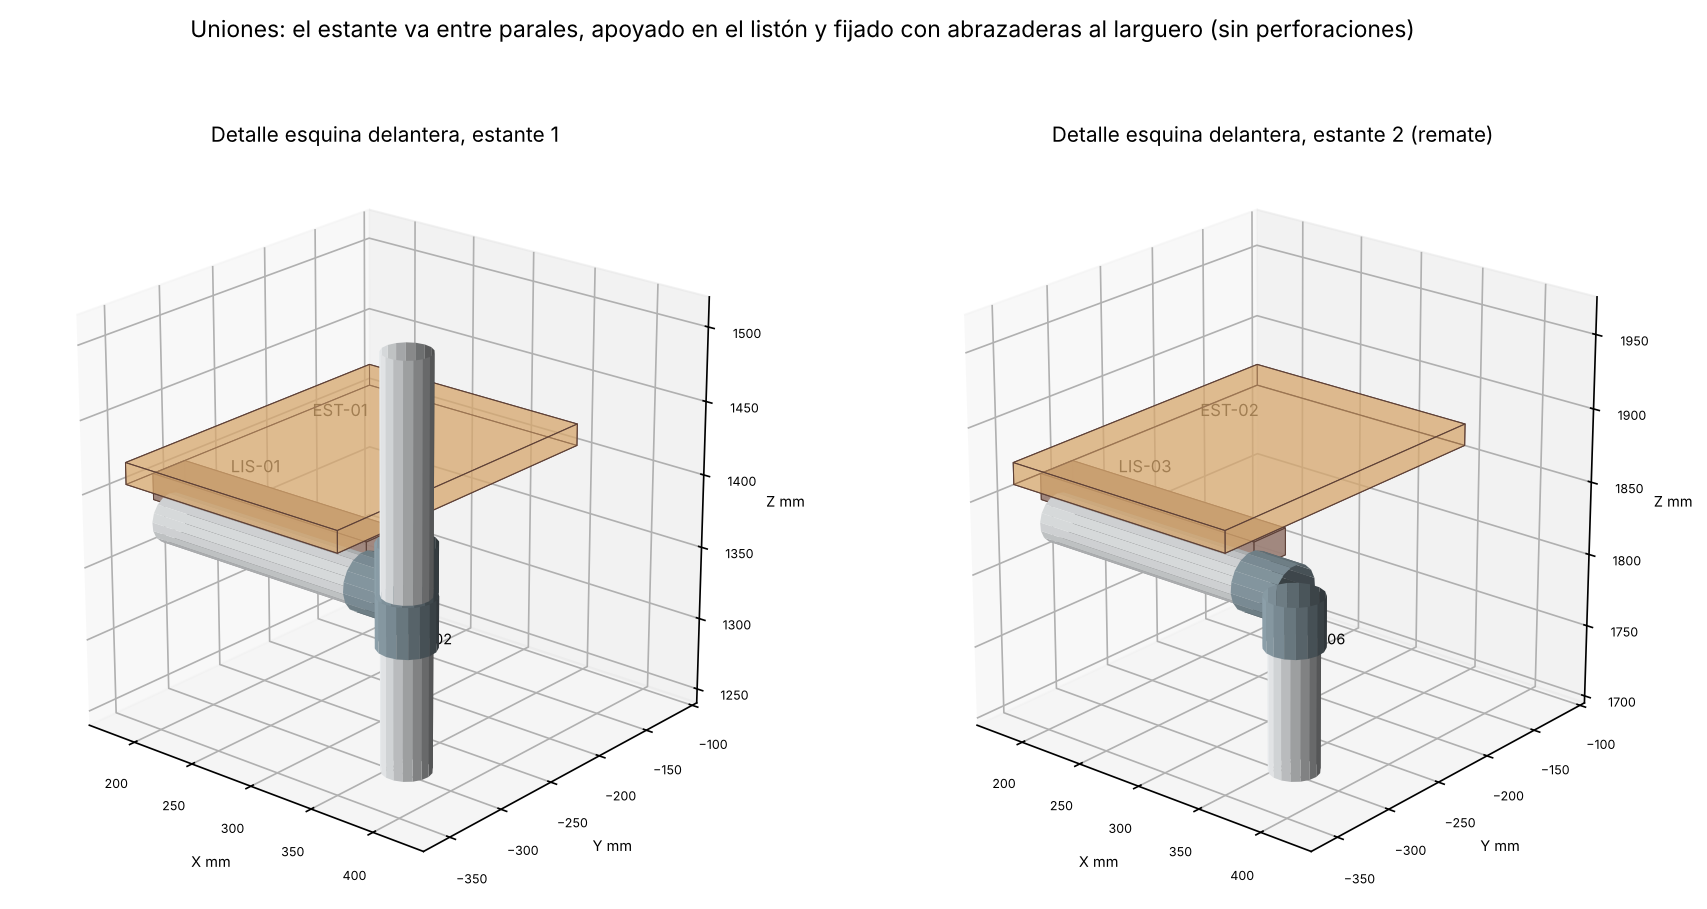
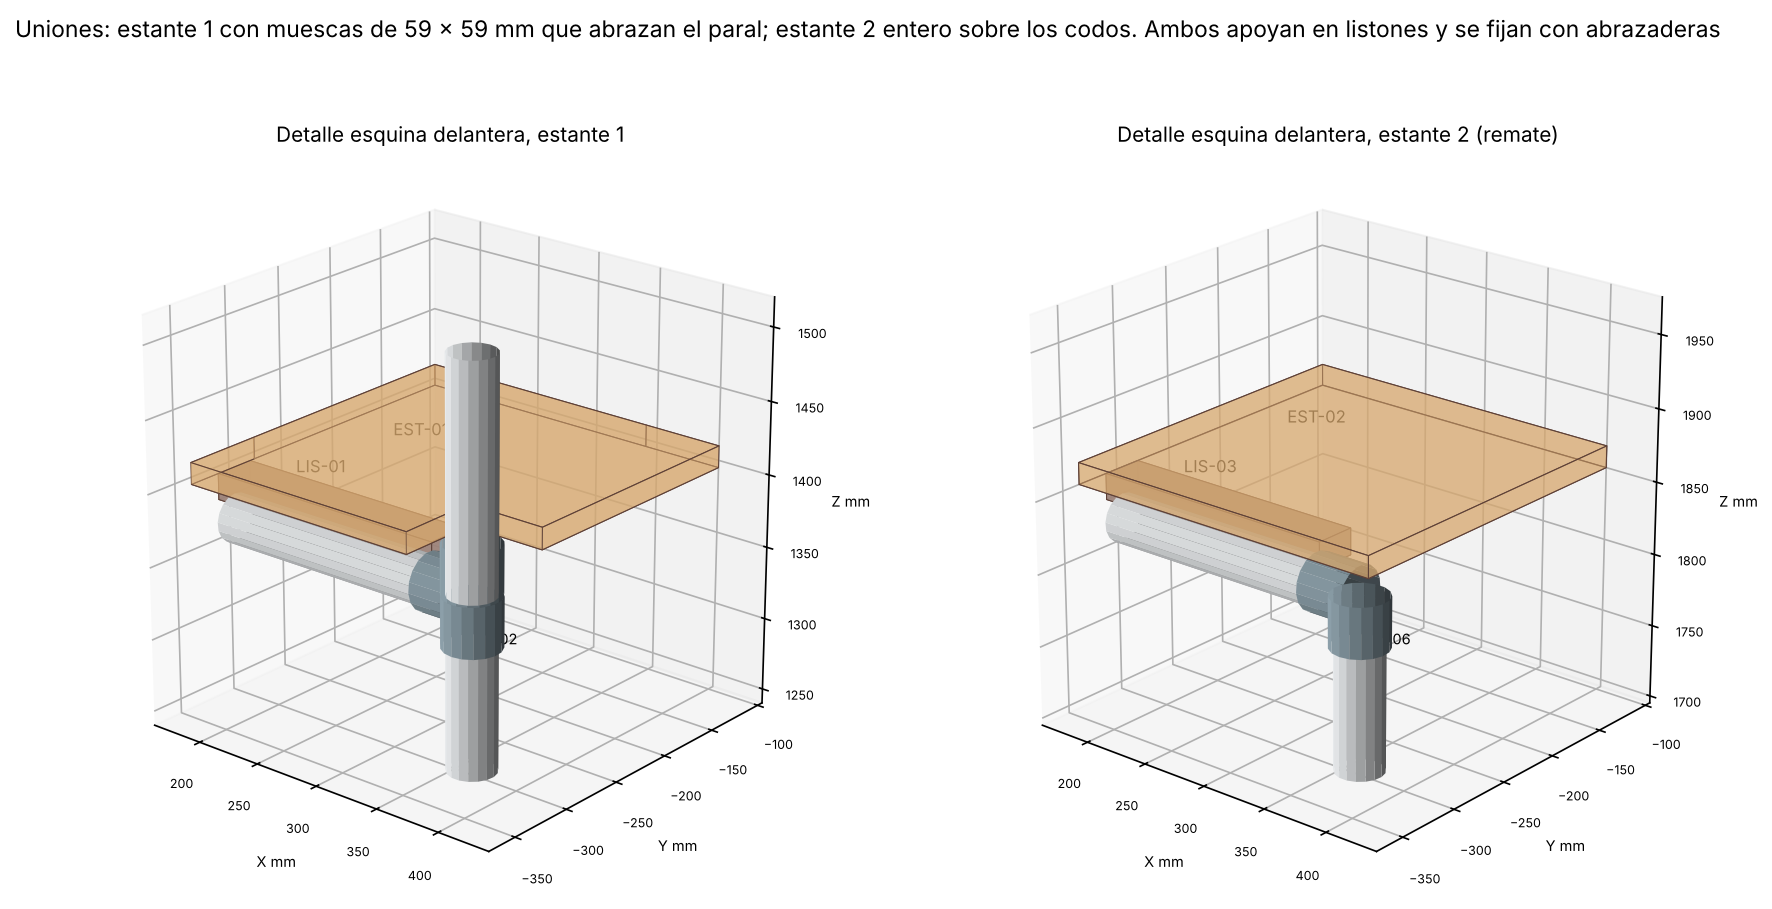
Organizador: estante 1 de 800 mm con muescas en esquinas; estante 2 entero
Claude-Session: https://claude.ai/code/session_01UqvLTsoUSJHPKucFXN8gtB

diff --git a/proyectos/organizador-lavadora/modelo/geometria.py b/proyectos/organizador-lavadora/modelo/geometria.py
@@ -23,7 +23,8 @@ Z_EST2 = 1815            # eje de las tees del estante 2
 # Estante 2 es el remate superior: codos arriba, sin largueros por encima.
 # Estantes SIN perforaciones (usuario 2026-11-22): van entre parales, apoyados en listones
 # sobre los largueros y fijados con abrazaderas para tubo 1" atornilladas (modelo PENDIENTE).
-HOLGURA_PARAL = 2        # holgura lateral del estante contra la tee, por lado
+HOLGURA_PARAL = 2        # holgura del estante contra el tubo/tee, por lado
+VARIANTE_ESTANTE = "muescas"   # "muescas": 800 mm con muescas en esquinas (usuario 2026-11-22) | "entre_parales": 676 mm
 ABRAZADERAS_POR_LISTON = 2
 ABRAZADERAS_PANEL = 4
 LISTON = dict(alto=18, ancho=30)  # PROPUESTA: listón sobre larguero; material PENDIENTE
@@ -32,7 +33,15 @@ Z_PISO = TEE["de"] / 2   # eje de los codos del piso
 HOLGURA_MANO = 100       # sobre la tapa abierta
 
 
+def muesca():
+    """Tamaño de la muesca cuadrada en cada esquina del estante 1 (libra el paral que sigue hacia arriba)."""
+    m = MARGEN_ESTANTE + TUBO_DE / 2 + HOLGURA_PARAL
+    return (round(m), round(m))
+
+
 def dims_estante():
+    if VARIANTE_ESTANTE == "muescas":
+        return 2 * (CX + MARGEN_ESTANTE), 2 * (CY + MARGEN_ESTANTE)
     lx = 2 * (CX - TEE["de"] / 2 - HOLGURA_PARAL)     # cabe entre las tees de los parales
     ly = 2 * (CY + MARGEN_ESTANTE)                      # sobresale por delante y por detrás de los largueros
     return lx, ly
@@ -63,7 +72,10 @@ def piezas():
     lx, ly = dims_estante()
     l = 1
     for i, z in enumerate((Z_EST1, Z_EST2), 1):
-        p.append(dict(codigo=f"EST-{i:02d}", tipo="tablero", origen=(-lx/2, -ly/2, z + r_run), dims=(lx, ly, TRIPLEX), perforaciones=[]))
+        # Estante 1: el paral sigue hacia arriba -> muescas. Estante 2: arriba solo hay codos -> sin muescas.
+        mus = muesca() if (VARIANTE_ESTANTE == "muescas" and i == 1) else None
+        p.append(dict(codigo=f"EST-{i:02d}", tipo="tablero", origen=(-lx/2, -ly/2, z + r_run), dims=(lx, ly, TRIPLEX),
+                      perforaciones=[], muesca=mus))
         for sy in (-1, 1):  # listones sobre largueros, entre tees/codos
             largo = 2 * CX - TEE["de"]
             p.append(dict(codigo=f"LIS-{l:02d}", tipo="liston", origen=(-largo/2, sy*CY - LISTON["ancho"]/2, z + r_run - LISTON["alto"]),
@@ -102,7 +114,10 @@ def verificaciones():
     ancho_total = 2 * (CX + MARGEN_ESTANTE)
     r.append((ancho_total <= ESPACIO["ancho"], f"Ancho total (panel) {ancho_total} <= espacio {ESPACIO['ancho']}"))
     r.append((ly + TRIPLEX <= ESPACIO["fondo"], f"Fondo estante+panel {ly + TRIPLEX} <= espacio {ESPACIO['fondo']}"))
-    r.append((True, f"Estante {lx:.0f} x {ly:.0f} mm, sin perforaciones (INFORMATIVO)"))
+    txt = f"Estante {lx:.0f} x {ly:.0f} mm, sin perforaciones"
+    if VARIANTE_ESTANTE == "muescas":
+        txt += f"; estante 1 con muescas de {muesca()[0]} x {muesca()[1]} mm en las 4 esquinas"
+    r.append((True, txt + " (INFORMATIVO)"))
     libre_x = 2 * CX - TEE["de"]
     r.append((libre_x > LAVADORA["ancho"], f"Paso libre entre parales {libre_x} > lavadora {LAVADORA['ancho']}"))
     bajo_est1 = Z_EST1 - TUBO_DE / 2

diff --git a/proyectos/organizador-lavadora/modelo/vista_previa.py b/proyectos/organizador-lavadora/modelo/vista_previa.py
@@ -26,6 +26,17 @@ def cilindro(ax, a, b, r, color, n=18):
     P = a[:,None,None] + d[:,None,None]*S + r*(u[:,None,None]*np.cos(TH) + w[:,None,None]*np.sin(TH))
     ax.plot_surface(P[0], P[1], P[2], color=color, linewidth=0, shade=True, antialiased=True)
 
+def prisma(ax, poly, z0, h, color, alpha, ec="#5d4037"):
+    n = len(poly)
+    bot = [(x, y, z0) for x, y in poly]; top = [(x, y, z0 + h) for x, y in poly]
+    caras = [bot, top] + [[bot[i], bot[(i+1)%n], top[(i+1)%n], top[i]] for i in range(n)]
+    ax.add_collection3d(Poly3DCollection(caras, facecolor=color, edgecolor=ec, linewidths=0.5, alpha=alpha))
+
+def poly_muescas(o, d, m):
+    x0, y0 = o[0], o[1]; x1, y1 = x0 + d[0], y0 + d[1]; mx, my = m
+    return [(x0+mx, y0), (x1-mx, y0), (x1-mx, y0+my), (x1, y0+my), (x1, y1-my), (x1-mx, y1-my), (x1-mx, y1),
+            (x0+mx, y1), (x0+mx, y1-my), (x0, y1-my), (x0, y0+my), (x0+mx, y0+my)]
+
 def recortar_seg(a, b, lim):
     a, b = np.array(a, float), np.array(b, float); t0, t1 = 0.0, 1.0
     for i, (lo, hi) in enumerate(lim):
@@ -61,6 +72,14 @@ def dibujar(ax, lim, elev, azim, titulo, lavadora=True, etiquetas=False):
                 cilindro(ax, c, c + np.array(d)*g.TEE["largo"]/2, g.TEE["de"]/2, C_ACC)
             if etiquetas:
                 ax.text(*(c + np.array([45, -60, 0])), p["codigo"], fontsize=7)
+        elif p.get("muesca") and not etiquetas:
+            prisma(ax, poly_muescas(p["origen"], p["dims"], p["muesca"]), p["origen"][2], p["dims"][2], C_MAD, 0.55)
+        elif p.get("muesca"):
+            # detalle: recorta el polígono con muescas al cuadro de la vista
+            (xa, xb), (ya, yb), _ = lim
+            pts = [(min(max(x, xa), xb), min(max(y, ya), yb)) for x, y in poly_muescas(p["origen"], p["dims"], p["muesca"])]
+            prisma(ax, pts, p["origen"][2], p["dims"][2], C_MAD, 0.55)
+            ax.text(xa + (xb-xa)*0.3, ya + (yb-ya)*0.5, p["origen"][2] + 25, p["codigo"], fontsize=8)
         else:
             r = recortar_caja(p["origen"], p["dims"], lim)
             if not r: continue
@@ -91,6 +110,6 @@ dibujar(fig.add_subplot(1,2,1, projection="3d"), ((cx-200, cx+80),(-cy-80, -cy+2
         "Detalle esquina delantera, estante 1", lavadora=False, etiquetas=True)
 dibujar(fig.add_subplot(1,2,2, projection="3d"), ((cx-200, cx+80),(-cy-80, -cy+200),(g.Z_EST2-120, g.Z_EST2+160)), 22, -50,
         "Detalle esquina delantera, estante 2 (remate)", lavadora=False, etiquetas=True)
-fig.suptitle("Uniones: el estante va entre parales, apoyado en el listón y fijado con abrazaderas al larguero (sin perforaciones)", fontsize=11)
+fig.suptitle(f"Uniones: estante 1 con muescas de {g.muesca()[0]} x {g.muesca()[1]} mm que abrazan el paral; estante 2 entero sobre los codos. Ambos apoyan en listones y se fijan con abrazaderas", fontsize=11)
 fig.savefig(os.path.join(out_dir, "vista-detalle-uniones.png"), bbox_inches="tight")
 print("ok")

diff --git a/proyectos/organizador-lavadora/modelo/organizador_lavadora.py b/proyectos/organizador-lavadora/modelo/organizador_lavadora.py
@@ -30,8 +30,13 @@ def cuerpo_accesorio(centro, de, largo, ramas):
     return sol.removeSplitter()
 
 
-def tablero(origen, dims, perforaciones, de_perf):
+def tablero(origen, dims, perforaciones, de_perf, muesca=None):
     caja = Part.makeBox(*dims, V(*origen))
+    if muesca:
+        mx, my = muesca
+        x0, y0, z0 = origen
+        for (ex, ey) in ((x0, y0), (x0 + dims[0] - mx, y0), (x0, y0 + dims[1] - my), (x0 + dims[0] - mx, y0 + dims[1] - my)):
+            caja = caja.cut(Part.makeBox(mx, my, dims[2] + 2, V(ex, ey, z0 - 1)))
     for (x, y) in perforaciones:
         caja = caja.cut(Part.makeCylinder(de_perf / 2, dims[2] + 2, V(x, y, origen[2] - 1)))
     return caja
@@ -47,7 +52,7 @@ def construir():
             # Codo modelado con medidas de la tee (PENDIENTE medir codo 1")
             shp = cuerpo_accesorio(p["centro"], g.TEE["de"], g.TEE["largo"], p["ramas"])
         else:
-            shp = tablero(p["origen"], p["dims"], p["perforaciones"], perf)  # tablero o listón
+            shp = tablero(p["origen"], p["dims"], p["perforaciones"], perf, p.get("muesca"))  # tablero o listón
         obj = doc.addObject("Part::Feature", p["codigo"].replace("-", "_"))
         obj.Label = p["codigo"]
         obj.Shape = shp
